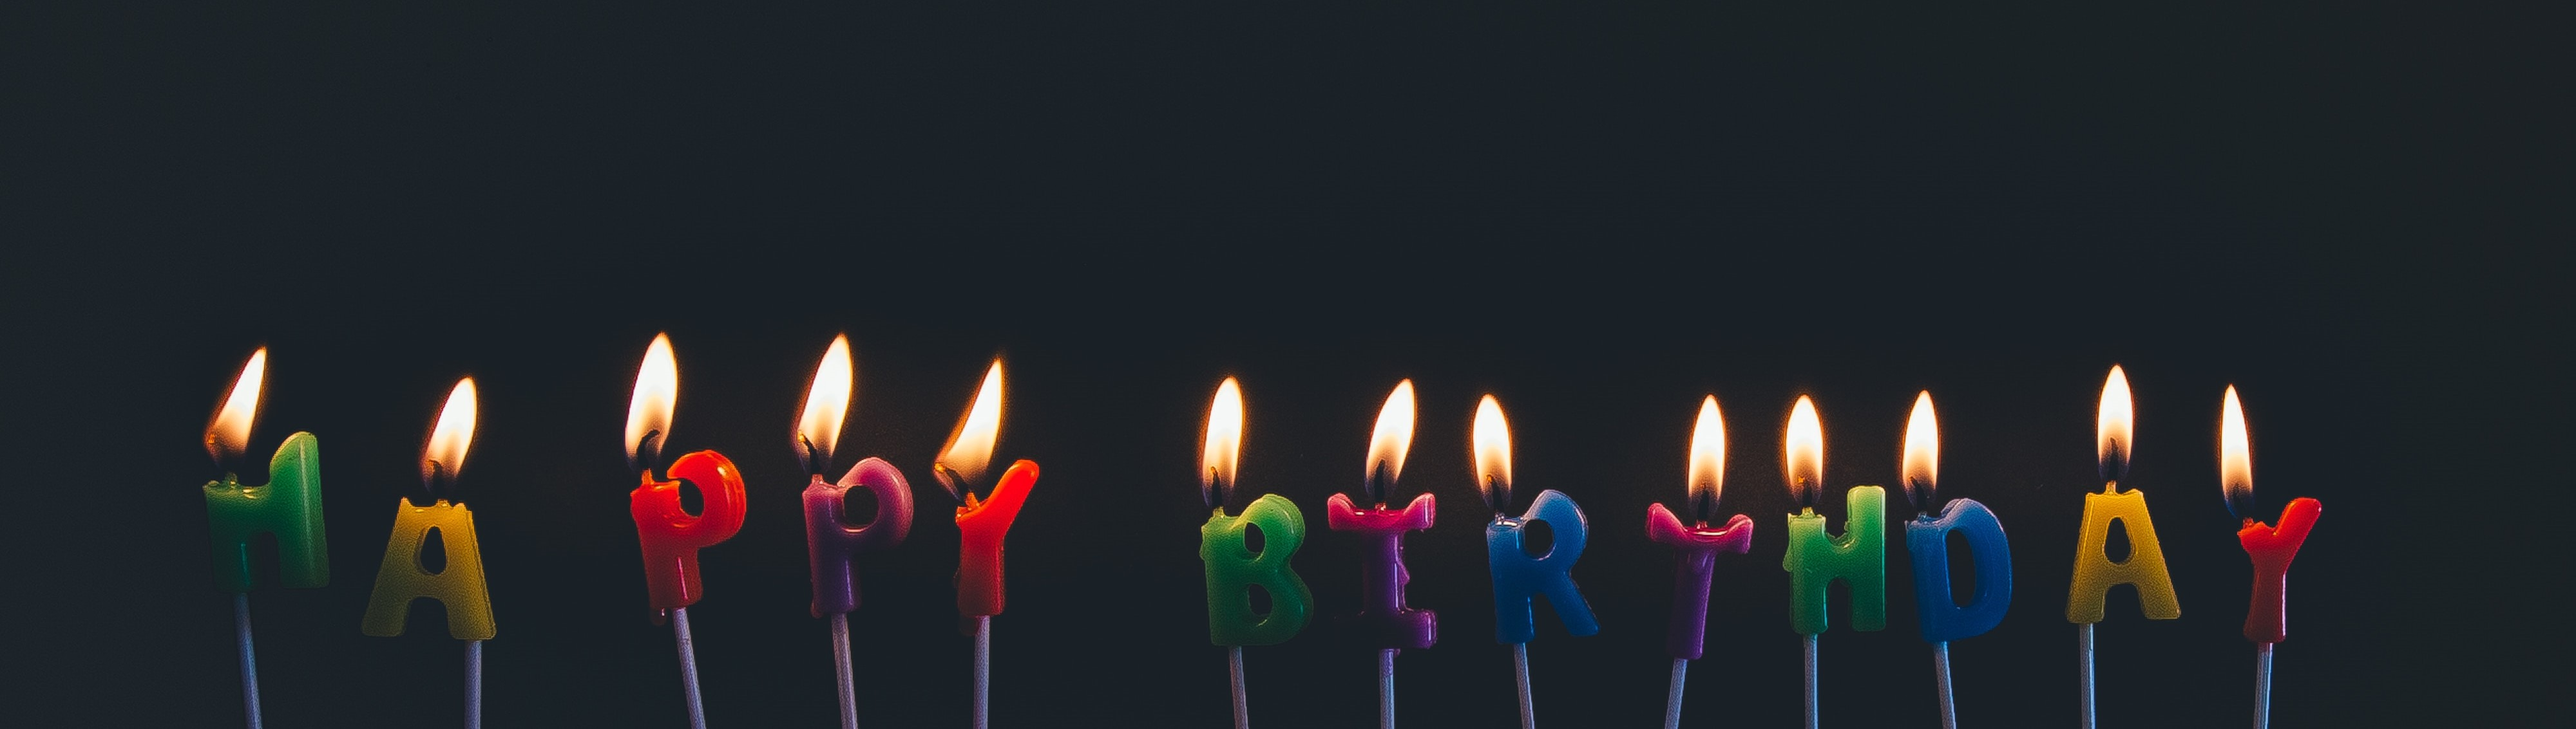
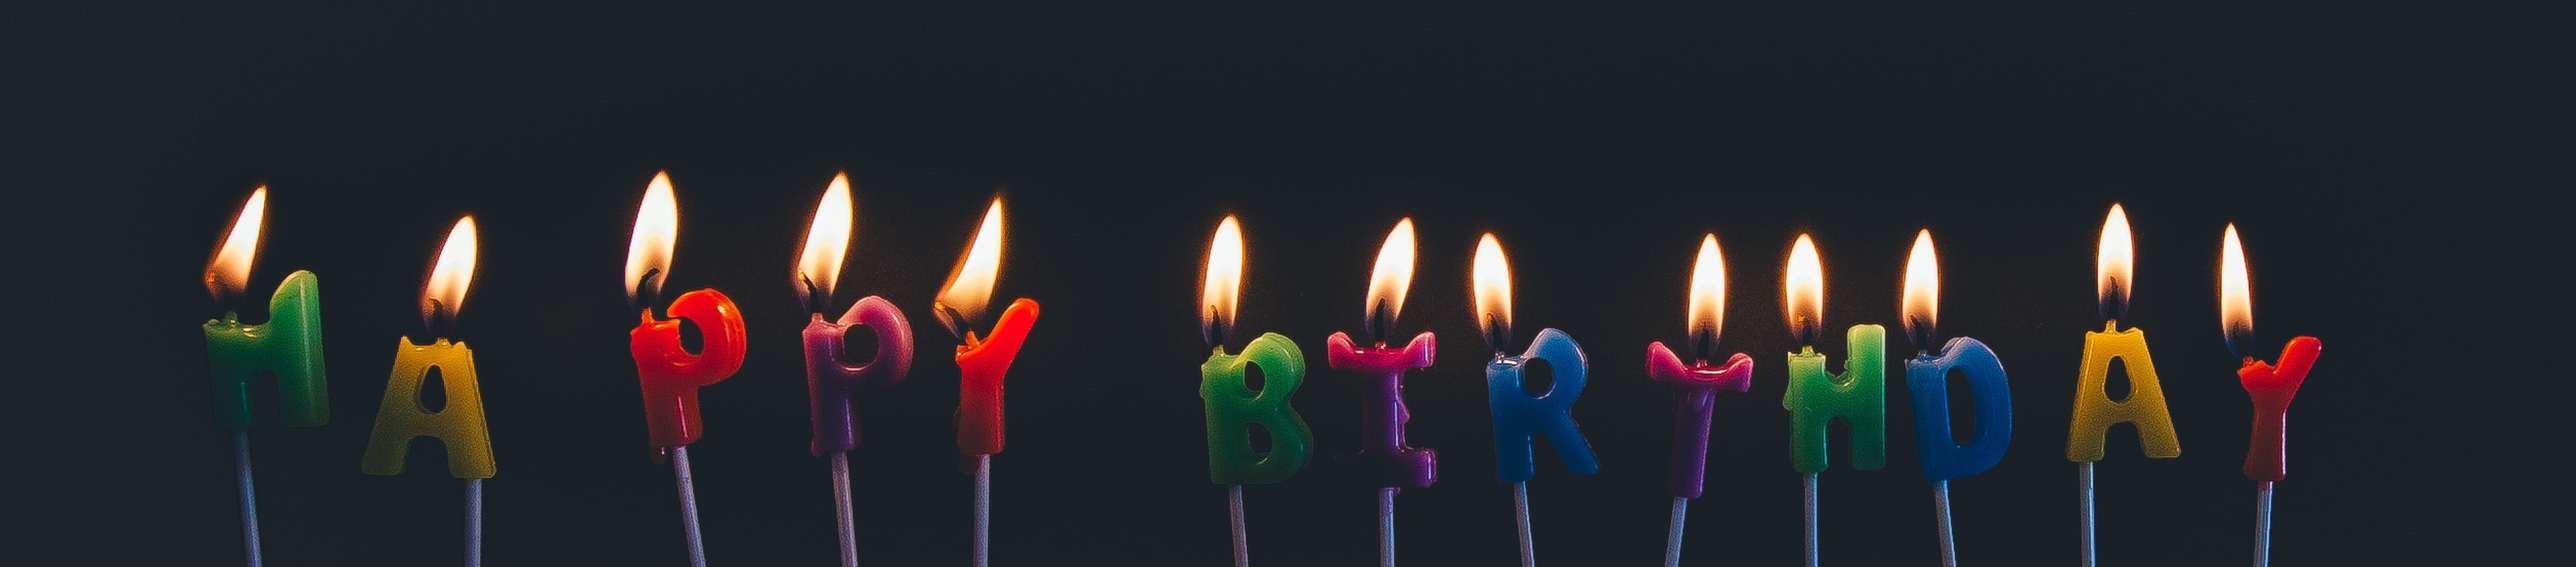
1

diff --git a/index.html b/index.html
@@ -3,6 +3,7 @@
 
 <head>
 	<meta charset="utf-8">
+	<title>Happy Birthday To LoeiZa</title>
 	<meta name="viewport" content="width=device-width, initial-scale=1.0,maximum-scale=1.0,minimum-scale=1.0,user-scalable=0">
 	<link rel="stylesheet" href="css/reveal-it.css" type="text/css">
 	<!-- 新 Bootstrap4 核心 CSS 文件 -->
@@ -27,11 +28,11 @@
 		}
 
 		.testDiv {
-			font-size: 4.375vw;
+			font-size: 4vw;
 			font-weight: bold;
 			text-align: center;
-			height: 31.25vw;
-			line-height: 31.25vw;
+			height: 30vw;
+			line-height: 30vw;
 			color: #fff;
 
 		}
@@ -141,8 +142,6 @@
 		quotes[100] = "Happy Birthday!"
 		quotes[101] = "Chúc mừng sinh nhật!"
 		quotes[102] = "生日快乐！"
-		var a = Math.random() + ""
-		var rand1 = a.charAt(5)
 		rand1 = 0
 
 		function myFunction1() {
@@ -157,8 +156,8 @@
 
 <body>
 
-	<div style="background:#1b2326" align="center">
-		<h1 class="testDiv" id="demo" style="background:#1b2326;">生日快乐！</h1>
+	<div style="background:#1a2127" align="center">
+		<h1 class="testDiv" id="demo" style="background:#1a2127;">生日快乐！</h1>
 		<div class="row">
 			<div class="col"><button type="button" class="btn btn-outline-light text-light" onclick="myFunction1()">(~^O^~) 点我！点我！</button></div>
 			<div class="col"><a class="btn btn-outline-light" href="奇怪的文本.html">不要点我 …(⊙_⊙;)…</a></div>
